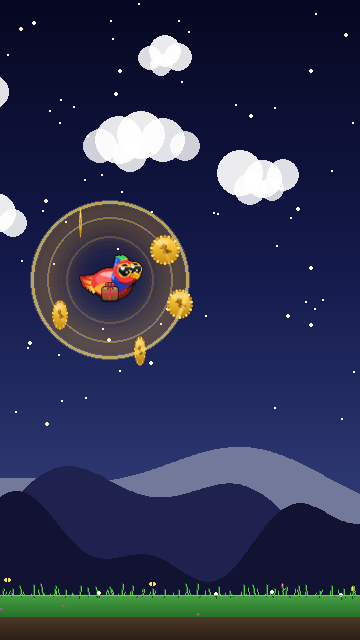
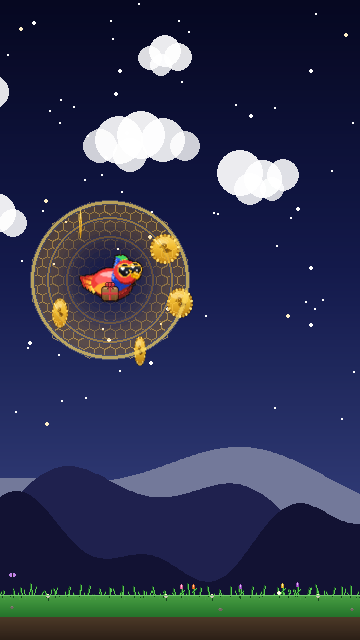
magnet: add hex-grid shield overlay to the live force-field
Promotes the chosen hex-shield design (variant 5) into the live
magnet render. New `_magnet_hex_grid(radius)` helper at module
scope in game/scenes.py builds the hex pattern once per radius and
caches it, so the per-frame magnet draw stays a single blit instead
of ~225 polygon draws. Cells fade from invisible at the centre to
full alpha at the rim — bird stays the focal point.

Hex sits between the radial glow and the pulsing rings so the rings
remain the brightest read. Static (does not pulse) — that's the
look of the chosen variant.

tools/snapshot_magnet_field.py now imports the same helper so the
reference PNG can't drift from the live render. field_current.png
regenerated.

diff --git a/game/scenes.py b/game/scenes.py
@@ -211,6 +211,50 @@ def _draw_trestle_rail(surf, pts):
         pygame.draw.lines(surf, col, False, shifted, w)
 
 
+# Hex grid overlay for the magnet force-field. Built once per radius
+# and re-blit each frame — the rings pulse but the hex pattern is
+# static, so building it lazily here keeps the per-frame work in the
+# magnet draw loop bounded (one blit instead of ~225 polygon draws
+# at MAGNET_RADIUS). Cells fade from invisible at the centre to full
+# alpha at the rim so the bird stays the focal point.
+_MAGNET_HEX_GRID_CACHE: "dict[int, pygame.Surface]" = {}
+
+
+def _magnet_hex_grid(radius: int) -> pygame.Surface:
+    cached = _MAGNET_HEX_GRID_CACHE.get(radius)
+    if cached is not None:
+        return cached
+    surf = pygame.Surface((radius * 2 + 8, radius * 2 + 8),
+                          pygame.SRCALPHA)
+    cx, cy = radius + 4, radius + 4
+    hex_r = max(5, int(radius * 0.085))
+    hex_w = hex_r * math.sqrt(3)
+    hex_h = hex_r * 1.5
+    rows = int(radius * 2 / hex_h) + 3
+    cols = int(radius * 2 / hex_w) + 3
+    for ri in range(-rows // 2, rows // 2 + 1):
+        for ci in range(-cols // 2, cols // 2 + 1):
+            hx = cx + ci * hex_w + (hex_w / 2 if ri % 2 else 0)
+            hy = cy + ri * hex_h
+            dx = hx - cx
+            dy = hy - cy
+            d = math.hypot(dx, dy)
+            if d > radius * 0.92:
+                continue
+            falloff = d / radius
+            a = int(160 * (falloff ** 1.5))
+            if a < 12:
+                continue
+            verts = []
+            for v in range(6):
+                ang = math.tau * v / 6 + math.pi / 6
+                verts.append((hx + math.cos(ang) * hex_r,
+                              hy + math.sin(ang) * hex_r))
+            pygame.draw.polygon(surf, (255, 215, 100, a), verts, 1)
+    _MAGNET_HEX_GRID_CACHE[radius] = surf
+    return surf
+
+
 STATE_MENU = 0
 STATE_PLAY = 1
 STATE_NAMEENTRY = 2
@@ -993,10 +1037,11 @@ class App:
             _draw_lottery_reveal(self.screen, self.world.lottery_anim)
 
         # Magnet force-field — Solar Gold palette: warm amber-gold rings
-        # + golden glow with a coherent dramatic breath. All elements
-        # (3 rings + inner radial glow) driven by a single pulse factor
-        # so the field shrinks and grows as one volume. Pulse rate 5.5
-        # ⇒ ~1.14 s cycle (slightly faster than the original 1.57 s).
+        # + golden glow + sci-fi hex-grid shield, with a coherent
+        # dramatic breath. The rings + glow pulse; the hex grid is
+        # static (cached at module load via `_magnet_hex_grid`) so we
+        # blit the prebuilt overlay each frame instead of redrawing
+        # ~225 polygons. Pulse rate 5.5 ⇒ ~1.14 s cycle.
         if self.world.magnet_timer > 0:
             from game.config import MAGNET_RADIUS
             import math as _math
@@ -1024,6 +1069,10 @@ class App:
                 if a > 0:
                     pygame.draw.circle(field, (*GLOW_COL, a),
                                        (lcx, lcy), r)
+
+            # Hex-grid overlay — sits on top of the warm glow, under
+            # the rings, so the rings remain the brightest read.
+            field.blit(_magnet_hex_grid(rad), (0, 0))
 
             # 3 rings with per-ring gold tints, slightly out of phase.
             AA_COL = (255, 240, 180)

diff --git a/tools/snapshot_magnet_field.py b/tools/snapshot_magnet_field.py
@@ -23,6 +23,7 @@ from game.draw import (
     get_sky_surface_biome, draw_mountains, draw_cloud, draw_ground,
 )
 from game.entities import Bird, Coin
+from game.scenes import _magnet_hex_grid
 
 
 OUT_DIR = os.path.join(
@@ -85,6 +86,8 @@ def draw_magnet_field(surf, bird_x, bird_y, cloud_phase):
         a = int(72 * bell)
         if a > 0:
             pygame.draw.circle(field, (*GLOW_COL, a), (lcx, lcy), r)
+
+    field.blit(_magnet_hex_grid(int(rad)), (0, 0))
 
     AA_COL = (255, 240, 180)
     for rfac, phase, alpha, width, breath_scale, ring_col in (
